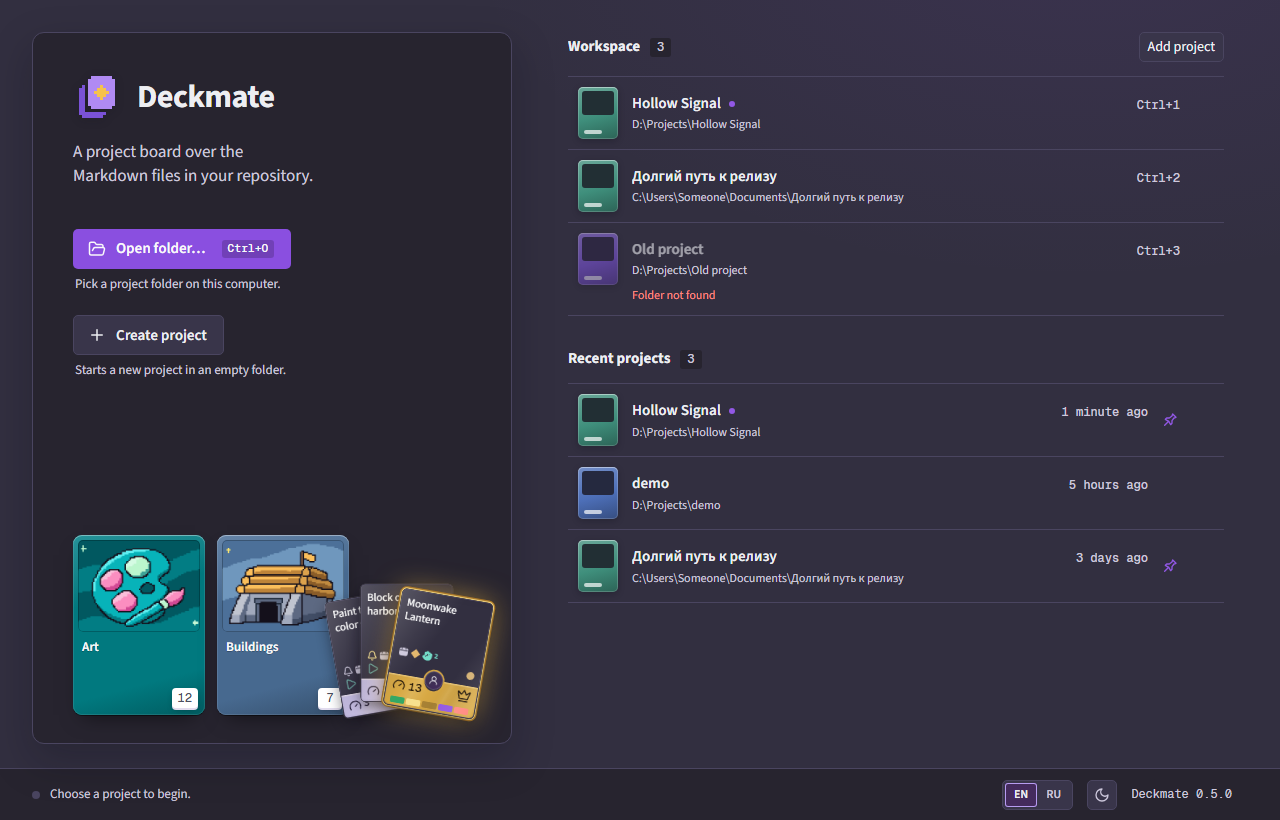
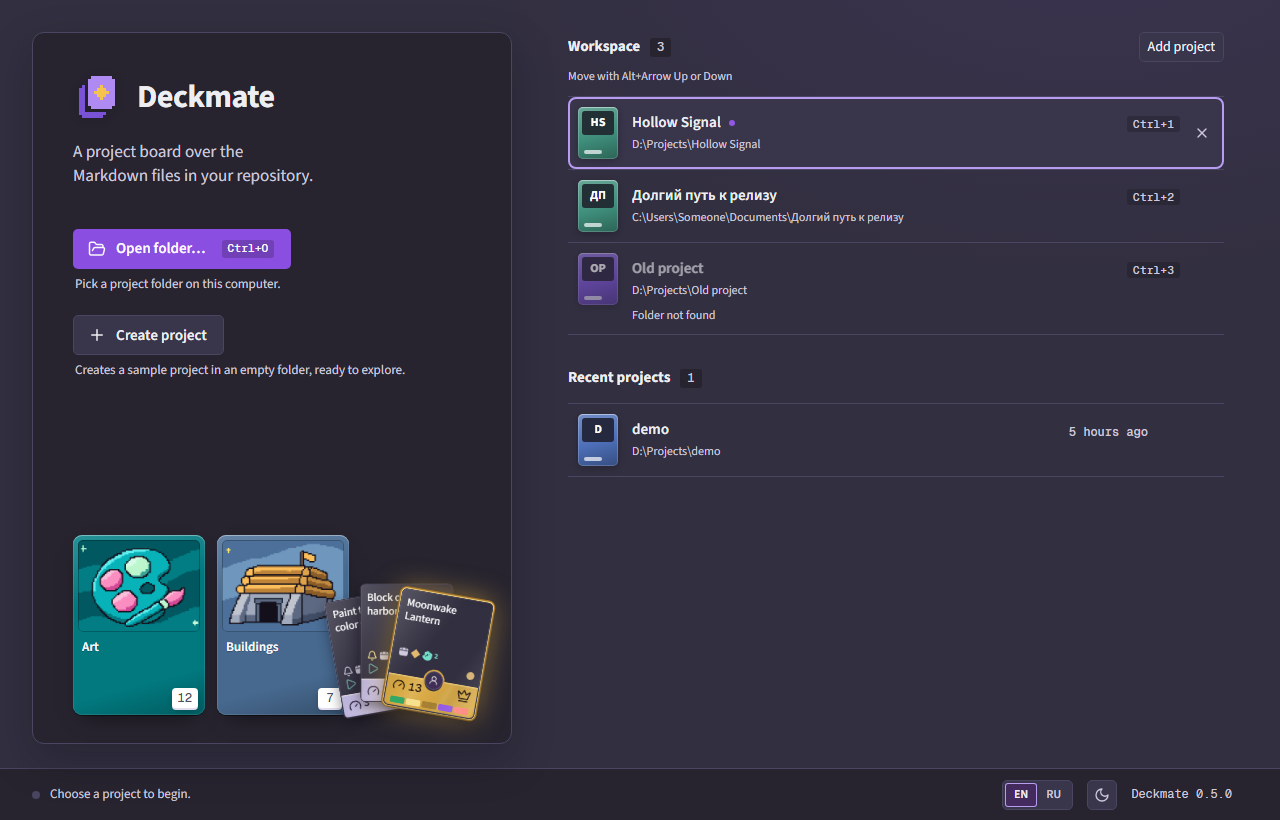
fix(desktop): start screen polish — keyboard, no duplicates, honest create
- Arrow keys, Home and End move through the workspace and recent rows as
  one list; the first row takes focus on show; Delete removes a workspace
  row too.
- Pinned projects no longer repeat under Recent projects; tiles carry the
  project's initials; shortcut labels use the kbd style; the reorder hint
  shows once under the heading instead of on every hover.
- First run shows one calm empty state; missing folders use a muted tone
  and focus their remove action instead of trying to open.
- "Create project" says it creates a sample project, which is what
  deckmate init does.

diff --git a/desktop/launcher/launcher.js b/desktop/launcher/launcher.js
@@ -7,9 +7,10 @@ const texts = {
     openFolder: 'Open folder…',
     openHint: 'Pick a project folder on this computer.',
     createProject: 'Create project',
-    createHint: 'Starts a new project in an empty folder.',
+    createHint: 'Creates a sample project in an empty folder, ready to explore.',
     recent: 'Recent projects',
     recentEmpty: 'Nothing opened yet. Projects you open appear here.',
+    recentAllPinned: 'All recent projects are in your workspace.',
     workspace: 'Workspace',
     addProject: 'Add project',
     workspaceEmpty: 'Pin the projects you work on and switch between them in one click.',
@@ -42,9 +43,10 @@ const texts = {
     openFolder: 'Открыть папку…',
     openHint: 'Выберите папку проекта на этом компьютере.',
     createProject: 'Создать проект',
-    createHint: 'Новый проект в пустой папке.',
+    createHint: 'Создаёт в пустой папке пример проекта, чтобы сразу всё попробовать.',
     recent: 'Недавние проекты',
     recentEmpty: 'Пока ничего не открыто. Открытые проекты появятся здесь.',
+    recentAllPinned: 'Все недавние проекты уже в рабочем пространстве.',
     workspace: 'Рабочее пространство',
     addProject: 'Добавить проект',
     workspaceEmpty: 'Закрепите проекты, с которыми работаете, — переключаться между ними можно в один клик.',
@@ -81,6 +83,8 @@ const page = {
   empty: document.getElementById('recent-empty'),
   count: document.getElementById('recent-count'),
   workspaceList: document.getElementById('workspace-list'),
+  workspace: document.getElementById('workspace'),
+  workspaceHint: document.getElementById('workspace-hint'),
   workspaceEmpty: document.getElementById('workspace-empty'),
   workspaceCount: document.getElementById('workspace-count'),
   workspaceAdd: document.getElementById('workspace-add'),
@@ -158,11 +162,16 @@ function labelThemeToggle() {
 }
 
 function renderRecent() {
-  const { recent } = state;
+  const recent = visibleRecent();
   page.list.replaceChildren(...recent.map(entry => renderRecentItem(entry)));
   page.empty.hidden = recent.length > 0;
+  page.empty.textContent = text(state.recent.length ? 'recentAllPinned' : 'recentEmpty');
   page.count.hidden = recent.length === 0;
   page.count.textContent = String(recent.length);
+}
+
+function visibleRecent() {
+  return state.recent.filter(entry => !state.workspace.some(candidate => samePath(candidate.path, entry.path)));
 }
 
 function samePath(a, b) {
@@ -170,6 +179,8 @@ function samePath(a, b) {
 }
 
 function renderWorkspace() {
+  page.workspace.hidden = state.workspace.length === 0 && state.recent.length === 0;
+  page.workspaceHint.hidden = state.workspace.length === 0;
   page.workspaceList.replaceChildren(...state.workspace.map((entry, index) => renderRecentItem(entry, index)));
   page.workspaceEmpty.hidden = state.workspace.length > 0;
   page.workspaceCount.hidden = state.workspace.length === 0;
@@ -187,23 +198,36 @@ function renderRecentItem(entry, workspaceIndex) {
   const open = document.createElement('button');
   open.type = 'button';
   open.className = 'recent-open';
-  if (workspace) open.title = text('reorderHint');
-  open.addEventListener('click', () => openProject(entry.path));
+  open.addEventListener('click', () => entry.missing ? remove.focus() : openProject(entry.path));
   open.addEventListener('keydown', event => {
     if (workspace && event.altKey && (event.key === 'ArrowUp' || event.key === 'ArrowDown')) {
       event.preventDefault();
       moveWorkspace(entry.path, workspaceIndex + (event.key === 'ArrowUp' ? -1 : 1));
       return;
     }
-    if (workspace) return;
+    if (!event.altKey && !event.ctrlKey && !event.metaKey && !event.shiftKey && ['ArrowUp', 'ArrowDown', 'Home', 'End'].includes(event.key)) {
+      const rows = [...document.querySelectorAll('.project-sections .recent-open')];
+      const index = rows.indexOf(open);
+      let target = index;
+      if (event.key === 'ArrowUp') target = Math.max(0, index - 1);
+      if (event.key === 'ArrowDown') target = Math.min(rows.length - 1, index + 1);
+      if (event.key === 'Home') target = 0;
+      if (event.key === 'End') target = rows.length - 1;
+      event.preventDefault();
+      rows[target]?.focus();
+      return;
+    }
     if (event.key !== 'Delete' && event.key !== 'Backspace') return;
     event.preventDefault();
-    removeRecent(entry.path, { refocus: true });
+    if (workspace) changeWorkspace(() => bridge.removeFromWorkspace(entry.path), { index: workspaceIndex, refocus: true });
+    else removeRecent(entry.path, { refocus: true });
   });
 
   const tile = document.createElement('span');
   tile.className = 'recent-tile';
   tile.style.setProperty('--tile', tileColor(entry.name || projectName(entry.path)));
+  tile.dataset.initials = (entry.name || projectName(entry.path)).trim().split(/[^\p{L}\p{N}]+/u).filter(Boolean).slice(0, 2).map(word => Array.from(word)[0]).join('').toLocaleUpperCase();
+  tile.setAttribute('aria-hidden', 'true');
 
   const name = document.createElement('span');
   name.className = 'recent-name';
@@ -211,7 +235,12 @@ function renderRecentItem(entry, workspaceIndex) {
 
   const when = document.createElement('span');
   when.className = 'recent-when';
-  when.textContent = workspace ? (workspaceIndex < 9 ? `Ctrl+${workspaceIndex + 1}` : '') : relativeTime(entry.lastOpened);
+  if (workspace && workspaceIndex < 9) {
+    const shortcut = document.createElement('kbd');
+    shortcut.className = 'shortcut';
+    shortcut.textContent = `Ctrl+${workspaceIndex + 1}`;
+    when.append(shortcut);
+  } else if (!workspace) when.textContent = relativeTime(entry.lastOpened);
 
   const path = document.createElement('span');
   path.className = 'recent-path';
@@ -243,17 +272,15 @@ function renderRecentItem(entry, workspaceIndex) {
 
   item.append(open);
   if (!workspace) {
-    const pinned = state.workspace.some(candidate => samePath(candidate.path, entry.path));
     const pin = document.createElement('button');
     pin.type = 'button';
-    pin.className = `recent-remove recent-pin${pinned ? ' is-pinned' : ''}`;
-    pin.setAttribute('aria-label', text(pinned ? 'removeFromWorkspace' : 'addToWorkspace'));
-    pin.setAttribute('aria-pressed', String(pinned));
-    pin.title = text(pinned ? 'removeFromWorkspace' : 'addToWorkspace');
+    pin.className = 'recent-remove recent-pin';
+    pin.setAttribute('aria-label', text('addToWorkspace'));
+    pin.title = text('addToWorkspace');
     pin.innerHTML = '<svg class="icon" viewBox="0 0 24 24" aria-hidden="true"><path d="m16 3 5 5-3 1-3 4v4l-2 2-3-5-5-3 2-2h4l4-3z"/><path d="m10 14-6 6"/></svg>';
-    pin.addEventListener('click', event => changeWorkspace(
-      () => pinned ? bridge.removeFromWorkspace(entry.path) : bridge.addToWorkspace(entry.path),
-      { recentPath: event.detail === 0 ? entry.path : null },
+    pin.addEventListener('click', () => changeWorkspace(
+      () => bridge.addToWorkspace(entry.path),
+      { recentIndex: visibleRecent().findIndex(candidate => samePath(candidate.path, entry.path)) },
     ));
     item.append(pin);
   }
@@ -261,7 +288,7 @@ function renderRecentItem(entry, workspaceIndex) {
   return item;
 }
 
-async function changeWorkspace(action, { index = 0, refocus = false, recentPath = null } = {}) {
+async function changeWorkspace(action, { index = 0, refocus = false, recentIndex = null } = {}) {
   if (busy) return;
   setBusy(true);
   try {
@@ -277,11 +304,11 @@ async function changeWorkspace(action, { index = 0, refocus = false, recentPath 
     setBusy(false);
     if (refocus) {
       const rows = page.workspaceList.querySelectorAll('.recent-open');
-      (rows[Math.min(Math.max(index, 0), rows.length - 1)] ?? page.workspaceAdd).focus();
+      (rows[Math.min(Math.max(index, 0), rows.length - 1)] ?? (page.workspace.hidden ? page.openFolder : page.workspaceAdd)).focus();
     }
-    if (recentPath) {
-      const index = state.recent.findIndex(entry => samePath(entry.path, recentPath));
-      page.list.children[index]?.querySelector('.recent-pin')?.focus();
+    if (recentIndex !== null) {
+      const rows = page.list.querySelectorAll('.recent-open');
+      (rows[Math.min(recentIndex, rows.length - 1)] ?? page.openFolder).focus();
     }
   } catch (error) {
     setStatus('error', describeError({ message: error?.message }));
@@ -308,9 +335,10 @@ async function chooseAndAdd() {
 
 async function removeRecent(folder, { refocus = false } = {}) {
   if (busy) return;
-  const index = state.recent.findIndex(candidate => candidate.path === folder);
+  const index = visibleRecent().findIndex(candidate => samePath(candidate.path, folder));
   await bridge.removeRecent(folder);
   state.recent = state.recent.filter(candidate => candidate.path !== folder);
+  renderWorkspace();
   renderRecent();
   if (!refocus) return;
   const rows = page.list.querySelectorAll('.recent-open');
@@ -426,6 +454,7 @@ bridge.onStatus?.(handleStatus);
   page.version.textContent = text('version', state.version || '—', state.deckmateVersion || '—');
   applyTexts();
   page.root.removeAttribute('aria-busy');
+  (document.querySelector('.project-sections .recent-open') ?? page.openFolder).focus();
 })();
 
 function mockBridge() {

diff --git a/desktop/launcher/launcher.css b/desktop/launcher/launcher.css
@@ -121,7 +121,7 @@ button { font: inherit; color: inherit; }
   background: linear-gradient(165deg, color-mix(in srgb, var(--tile) 78%, #ffffff), var(--tile) 55%, color-mix(in srgb, var(--tile) 70%, #000000));
   box-shadow: inset 0 0 0 1px #ffffff2e, inset 0 1px 0 #ffffff55, 0 2px 6px #0c0a1340;
 }
-.recent-tile::before { content: ''; position: absolute; left: 4px; right: 4px; top: 4px; height: 24px; border-radius: 3px; background: color-mix(in srgb, var(--cover-window) 82%, var(--tile)); }
+.recent-tile::before { content: attr(data-initials); position: absolute; left: 4px; right: 4px; top: 4px; height: 24px; border-radius: 3px; display: grid; place-items: center; background: color-mix(in srgb, var(--cover-window) 82%, var(--tile)); color: #fff; font: 700 12px/1 var(--font-sans); }
 .recent-tile::after { content: ''; position: absolute; left: 6px; bottom: 5px; width: 18px; height: 4px; border-radius: 2px; background: #ffffffb0; }
 .recent-name { grid-column: 2; font-size: 15px; font-weight: 600; white-space: nowrap; overflow: hidden; text-overflow: ellipsis; align-self: end; }
 .recent-when { grid-column: 3; grid-row: 1; align-self: end; font-family: var(--font-mono); font-size: 12px; font-weight: 500; font-variant-numeric: tabular-nums; color: var(--muted); white-space: nowrap; }
@@ -140,9 +140,10 @@ button { font: inherit; color: inherit; }
 .workspace-add { margin-left: auto; padding: 4px 8px; border: 1px solid var(--line); border-radius: 5px; background: var(--surface); color: var(--ink); cursor: pointer; }
 .workspace-add:hover:not(:disabled) { background: var(--hover); }
 .workspace-add:disabled, .recent-open:disabled, .recent-remove:disabled { cursor: default; opacity: .55; }
+.workspace-hint { margin: -8px 0 10px; font-size: 12px; color: var(--muted); }
 .workspace-empty { margin: 0; padding: 16px 10px; border-top: 1px solid var(--line); color: var(--muted); max-width: 48ch; }
 .recent-item.is-missing .recent-tile, .recent-item.is-missing .recent-name { opacity: .6; }
-.recent-missing { grid-column: 2 / -1; color: var(--danger); font-size: 12px; }
+.recent-missing { grid-column: 2 / -1; color: var(--muted); font-size: 12px; }
 .recent-pin { right: 40px; }
 .recent-item.has-pin .recent-open { padding-right: 76px; }
 .recent-item .recent-pin.is-pinned { opacity: 1; color: var(--accent); }

diff --git a/tools/launcher-capture.ts b/tools/launcher-capture.ts
@@ -48,12 +48,8 @@ const LANG_SCRIPTS: Record<string, string> = {
 const STATE_SCRIPTS: Record<string, string> = {
   list: `document.getAnimations().forEach(a => a.finish())`,
   empty: `document.getAnimations().forEach(a => a.finish());
-    document.getElementById('workspace-list').replaceChildren();
-    document.getElementById('workspace-empty').hidden = false;
-    document.getElementById('workspace-count').hidden = true;
-    document.getElementById('recent-list').replaceChildren();
-    document.getElementById('recent-empty').hidden = false;
-    document.getElementById('recent-count').hidden = true;`,
+    state.recent = []; state.workspace = []; renderWorkspace(); renderRecent();
+    document.getElementById('open-folder').focus();`,
   error: `document.getAnimations().forEach(a => a.finish()); document.getElementById('open-folder').click();`,
   'hover-row': `document.getAnimations().forEach(a => a.finish()); document.querySelectorAll('.recent-item')[1].classList.add('is-hover-demo');`,
   'focus-open': `document.getAnimations().forEach(a => a.finish())`,

diff --git a/desktop/launcher/index.html b/desktop/launcher/index.html
@@ -54,13 +54,14 @@
     </section>
 
     <div class="project-sections">
-    <section class="workspace" aria-labelledby="workspace-heading">
+    <section class="workspace" id="workspace" aria-labelledby="workspace-heading">
       <div class="recent-head">
         <h2 id="workspace-heading" data-text="workspace"></h2>
         <span class="count" id="workspace-count" hidden></span>
         <button type="button" class="workspace-add" id="workspace-add" data-text="addProject"></button>
       </div>
-      <ul class="recent-list" id="workspace-list" aria-labelledby="workspace-heading"></ul>
+      <p class="workspace-hint" id="workspace-hint" data-text="reorderHint"></p>
+      <ul class="recent-list" id="workspace-list" aria-labelledby="workspace-heading" aria-describedby="workspace-hint"></ul>
       <p class="workspace-empty" id="workspace-empty" data-text="workspaceEmpty" hidden></p>
     </section>
     <section class="recent" aria-labelledby="recent-heading">
